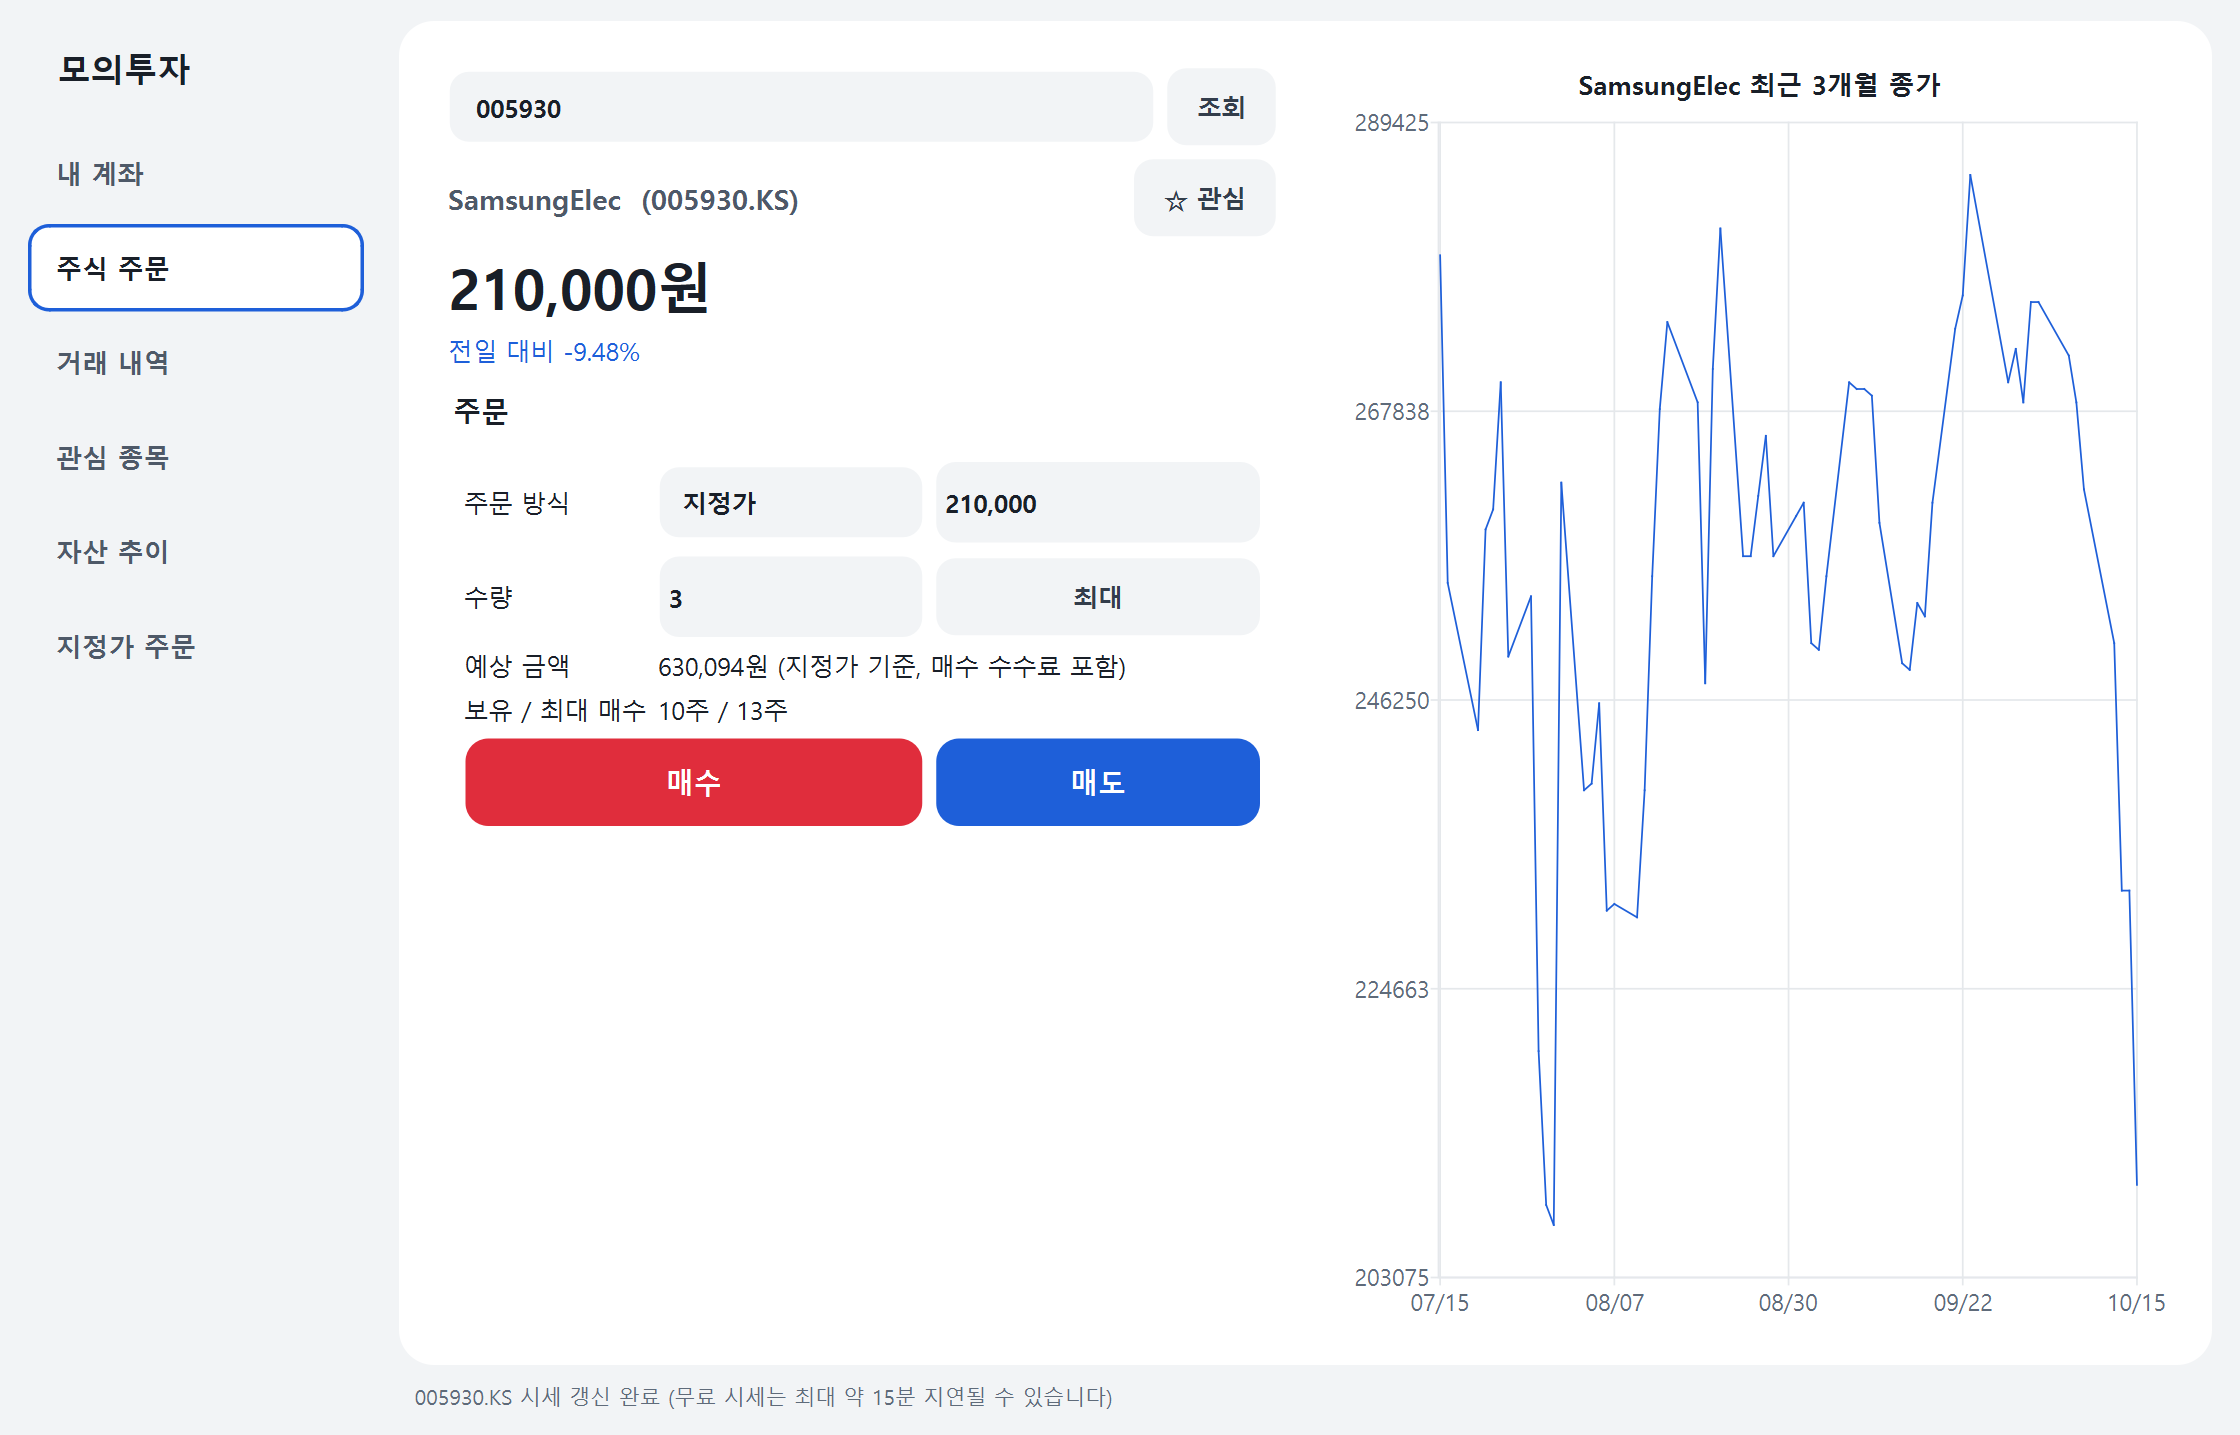
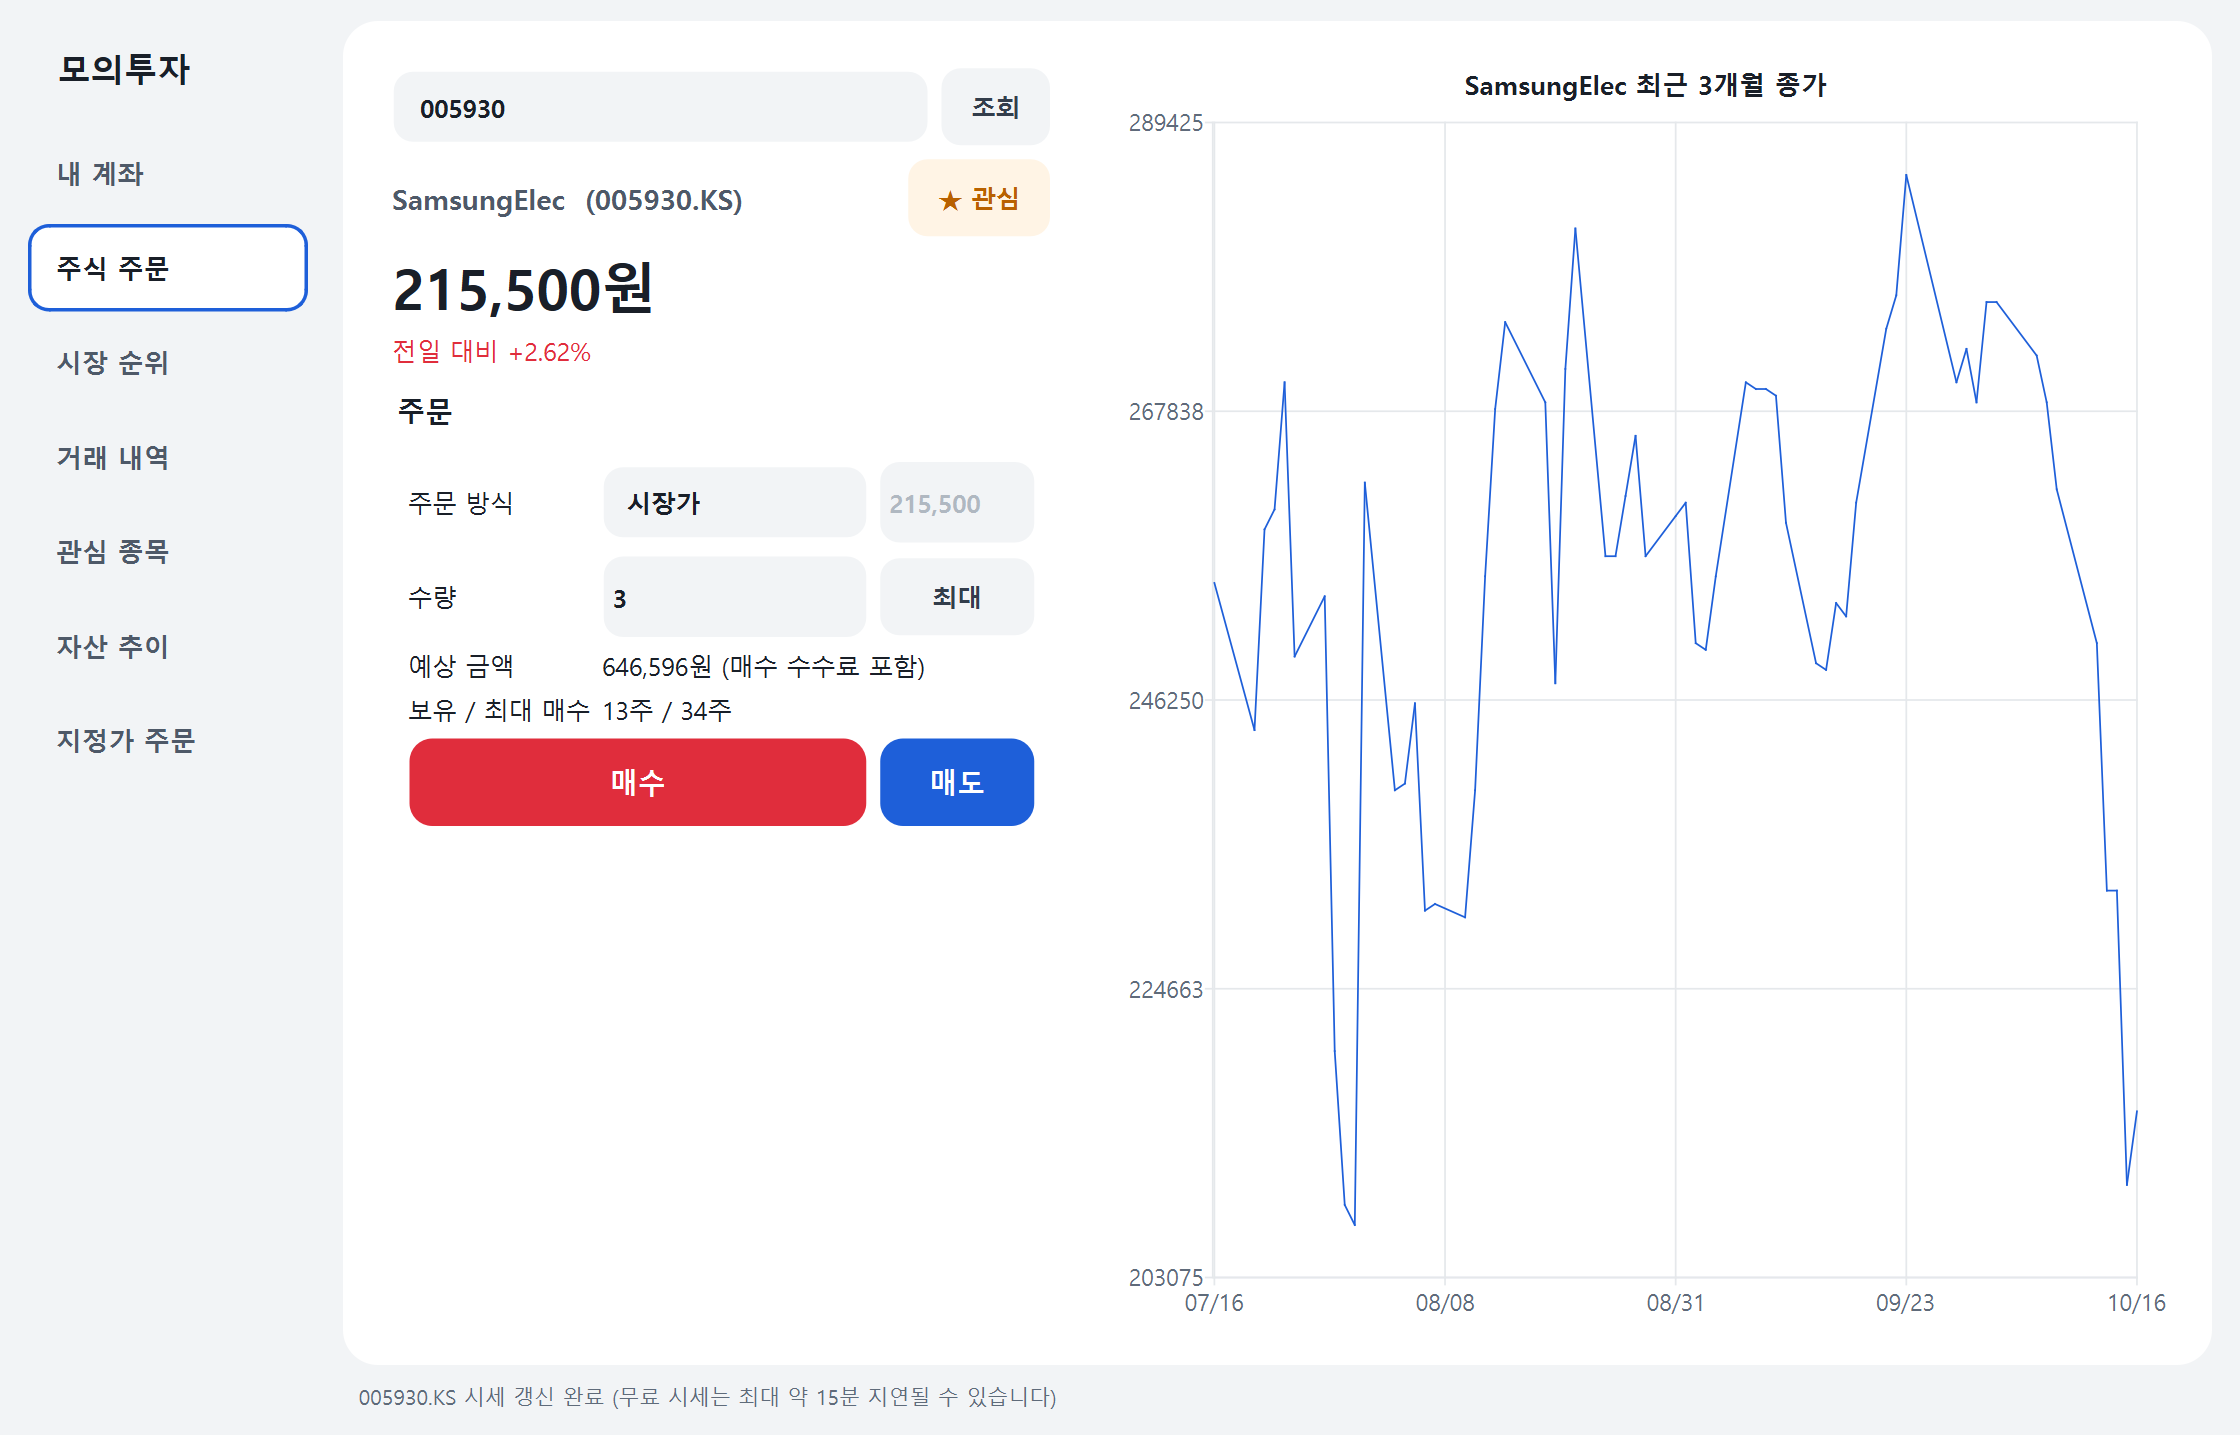
docs: 실제 시세로 README 화면과 시연 GIF 다시 만들기(make_media.py)

diff --git a/packaging/make_media.py b/packaging/make_media.py
@@ -1,0 +1,156 @@
+"""README용 스크린샷과 시연 GIF를 실제 시세로 다시 만든다.
+
+    pip install pillow   # GIF를 만들 때만 필요(앱 실행에는 필요 없음)
+    python packaging/make_media.py
+
+임시 DB(실제 계좌와 무관)에 3주 전에 연 연습 계좌와 거래 몇 건을 만든 뒤, 화면을 차례로 띄워 docs/에 저장한다.
+창이 잠깐씩 화면에 떴다 사라진다.
+"""
+from __future__ import annotations
+
+import sys
+import tempfile
+import time
+from datetime import datetime, timedelta
+from decimal import Decimal
+from pathlib import Path
+
+ROOT = Path(__file__).resolve().parent.parent
+sys.path.insert(0, str(ROOT))
+
+from PIL import Image  # noqa: E402
+from PySide6.QtCore import QBuffer, QIODevice  # noqa: E402
+from PySide6.QtWidgets import QApplication  # noqa: E402
+
+from mock_trading.broker import Broker  # noqa: E402
+from mock_trading.domain import Currency, Side, krw  # noqa: E402
+from mock_trading.market_data import YFinanceProvider  # noqa: E402
+from mock_trading.storage import Repository  # noqa: E402
+from mock_trading.ui import main_window as mw  # noqa: E402
+from mock_trading.ui.theme import apply_theme  # noqa: E402
+
+DOCS = ROOT / "docs"
+SIZE = (1280, 820)
+GIF_WIDTH = 960
+
+
+def settle(app: QApplication, seconds: float) -> None:
+    end = time.time() + seconds
+    while time.time() < end:
+        app.processEvents()
+        time.sleep(0.03)
+
+
+def to_pil(widget) -> Image.Image:
+    buffer = QBuffer()
+    buffer.open(QIODevice.ReadWrite)
+    widget.grab().save(buffer, "PNG")
+    from io import BytesIO
+
+    return Image.open(BytesIO(bytes(buffer.data()))).convert("RGB")
+
+
+def seed_account(repo: Repository, provider: YFinanceProvider) -> None:
+    """3주 전에 2,000만 원으로 연 계좌에, 그날그날의 실제 종가로 거래 몇 건을 남긴다."""
+    repo.reset_account(Decimal(20_000_000))
+    start = datetime.now() - timedelta(days=21)
+    repo._conn.execute("UPDATE account SET created_at = ?", (start.isoformat(timespec="seconds"),))
+    closes, fx = provider.get_daily_closes(["005930.KS", "AAPL", "000660.KS"], start.date(), include_usd_krw=True)
+
+    def on(series, day):
+        return [v for k, v in sorted(series.items()) if k <= day][-1]
+
+    first = max(min(closes[s]) for s in closes)
+    plan = [
+        ("005930.KS", Side.BUY, 15, first, Currency.KRW),
+        ("AAPL", Side.BUY, 8, first, Currency.USD),
+        ("000660.KS", Side.BUY, 3, first + timedelta(days=3), Currency.KRW),
+        ("005930.KS", Side.SELL, 5, first + timedelta(days=9), Currency.KRW),
+    ]
+    names = {symbol: provider.get_quote(symbol).name for symbol in closes}  # 앱이 보여 주는 이름과 같게
+    for symbol, side, qty, day, currency in plan:
+        name = names[symbol]
+        price = on(closes[symbol], day)
+        rate = Decimal(1) if currency is Currency.KRW else on(fx, day)
+        amount = krw(price * rate * qty)
+        fee = (amount * Decimal("0.00015")).quantize(Decimal(1))
+        repo.add_trade(symbol=symbol, name=name, side=side, quantity=qty, price=price, currency=currency,
+                       fx_rate=rate, amount_krw=amount, fee_krw=fee,
+                       executed_at=datetime.combine(day, datetime.min.time()).replace(hour=10))
+    for symbol in ["005930.KS", "AAPL", "TSLA", "035720.KS"]:
+        quote = provider.get_quote(symbol)
+        repo.add_watch(symbol, quote.name, quote.currency, limit=50)
+
+
+def main() -> int:
+    app = QApplication(sys.argv)
+    apply_theme(app)
+    mw._confirm = lambda *a, **k: True  # 시연에서는 확인창을 자동으로 "예"
+    mw._warn = lambda _parent, title, text: print("경고:", title, text, flush=True)  # 막지 않고 기록만
+    with tempfile.TemporaryDirectory() as tmp:
+        repo = Repository(Path(tmp) / "demo.db", check_same_thread=False)
+        provider = YFinanceProvider()
+        seed_account(repo, provider)
+        print("seeded", flush=True)
+        broker = Broker(repo, provider)
+        window = mw.MainWindow(broker)
+        window.resize(*SIZE)
+        window.show()
+        window.start()
+        settle(app, 6)
+        frames: list[tuple[Image.Image, int]] = []
+
+        def shot(name: str | None, hold_ms: int = 1400) -> None:
+            print("shot", name, flush=True)
+            image = to_pil(window)
+            if name:
+                image.save(DOCS / name)
+            frames.append((image, hold_ms))
+
+        shot("screenshot.png", 1800)                                   # 내 계좌
+        window.tabs.setCurrentWidget(window.order_page)
+        window.symbol_input.setText("005930")
+        window.load_quote()
+        settle(app, 6)
+        shot(None)
+        window.quantity.setValue(3)
+        settle(app, 0.5)
+        shot(None, 900)
+        window.place_order(Side.BUY)                                   # 시장가 매수
+        settle(app, 6)
+        shot("order-page.png")
+        window.order_type.setCurrentIndex(1)                           # 지정가로 걸어 두기
+        window.limit_price.setValue(float(window.current.quote.price) * 0.95)
+        window.quantity.setValue(5)
+        settle(app, 0.5)
+        shot(None, 1000)
+        window.place_order(Side.BUY)
+        settle(app, 5)
+        window.tabs.setCurrentWidget(window.orders_tab)
+        settle(app, 3)
+        shot("limit-order.png")
+        window.tabs.setCurrentWidget(window.rank_page)
+        settle(app, 12)
+        shot("market-ranking.png", 1800)
+        window.tabs.setCurrentWidget(window.watch_tab)
+        settle(app, 8)
+        shot("watchlist.png")
+        window.tabs.setCurrentWidget(window.history_tab)
+        settle(app, 10)
+        shot("asset-history.png", 2200)
+        window.tabs.setCurrentWidget(window.account_page)
+        settle(app, 4)
+        shot(None, 1800)
+        window.close()
+
+        images = [f.resize((GIF_WIDTH, int(f.height * GIF_WIDTH / f.width)), Image.LANCZOS) for f, _ in frames]
+        palette = [i.quantize(colors=128, method=Image.Quantize.MEDIANCUT) for i in images]
+        palette[0].save(DOCS / "demo.gif", save_all=True, append_images=palette[1:],
+                        duration=[ms for _, ms in frames], loop=0, optimize=True)
+        repo.close()
+    print("saved:", sorted(p.name for p in DOCS.iterdir()))
+    return 0
+
+
+if __name__ == "__main__":
+    sys.exit(main())

diff --git a/README.md b/README.md
@@ -2,17 +2,21 @@
 
 실제 주식 시세(한국 · 미국)를 받아 와서, **가상의 기초 자금**으로 실제처럼 매수·매도를 연습하는 데스크톱 프로그램입니다.
 
-| 내 계좌 | 주식 주문 |
-|---|---|
-| ![내 계좌](docs/screenshot.png) | ![주식 주문](docs/order-page.png) |
+![시연: 내 계좌 → 주식 주문(조회·매수·지정가) → 시장 순위 → 관심 종목 → 자산 추이](docs/demo.gif)
+
+| 내 계좌 | 주식 주문 | 시장 순위 |
+|---|---|---|
+| ![내 계좌](docs/screenshot.png) | ![주식 주문](docs/order-page.png) | ![시장 순위](docs/market-ranking.png) |
 
 | 관심 종목 | 자산 추이 | 지정가 주문 |
 |---|---|---|
 | ![관심 종목](docs/watchlist.png) | ![자산 추이](docs/asset-history.png) | ![지정가 주문](docs/limit-order.png) |
 
+화면과 시연 GIF는 실제 시세와 임시 연습 계좌로 찍었습니다(`python packaging/make_media.py`, pillow 필요 — 실제 계좌 DB는 건드리지 않음).
+
 ## 주요 기능
 
-깔끔한 핀테크 앱 느낌(연한 회색 바탕, 흰 둥근 카드, 큰 숫자, 상승 빨강·하락 파랑)으로 꾸몄습니다. 왼쪽 메뉴로 내 계좌 · 주식 주문 · 거래 내역 · 관심 종목 · 자산 추이 · 지정가 주문 화면을 오갑니다. 모양은 `mock_trading/ui/theme.py` 한 곳에 모여 있습니다.
+깔끔한 핀테크 앱 느낌(연한 회색 바탕, 흰 둥근 카드, 큰 숫자, 상승 빨강·하락 파랑)으로 꾸몄습니다. 왼쪽 메뉴로 내 계좌 · 주식 주문 · 시장 순위 · 거래 내역 · 관심 종목 · 자산 추이 · 지정가 주문 화면을 오갑니다. 모양은 `mock_trading/ui/theme.py` 한 곳에 모여 있습니다.
 
 - **기초 자금 받기**: 처음 실행하면 연습에 쓸 가상 자금(원)을 정합니다. 언제든 초기화하고 다시 시작할 수 있습니다.
 - **실제 시세 조회**: 한국 주식은 6자리 코드(`005930`), 미국 주식은 티커(`AAPL`)로 조회합니다. 코스피/코스닥은 자동으로 구분합니다.
@@ -71,12 +75,15 @@ mock_trading/
 ├── market_rank.py   # 시장 순위(주요 종목 목록 + 순위 계산, 5분 캐시)
 ├── history.py       # 자산 추이(장부 + 과거 종가로 날짜별 총자산 재계산, 종가 캐시)
 ├── broker.py        # 주문 검증과 체결, 수수료, 계좌 평가
+├── export.py        # 거래 내역 CSV 내보내기(수식 실행 방지)
+├── app.py           # 앱 시작, 실행 파일 자가 점검(--self-check)
 ├── __main__.py      # 실행 진입점
 └── ui/
     ├── main_window.py  # PySide6 화면
     ├── worker.py       # 백그라운드 작업 스레드
     └── format.py       # 금액·수익률 표시 형식
 tests/               # pytest
+packaging/           # 실행 파일 빌드(build.py), README 화면·GIF 만들기(make_media.py)
 ```
 
 화면(`ui/`)은 입력을 넘기기만 하고, 검증과 계산은 모두 `broker.py`에서 합니다. 그래서 핵심 로직을 화면 없이 테스트할 수 있습니다.
